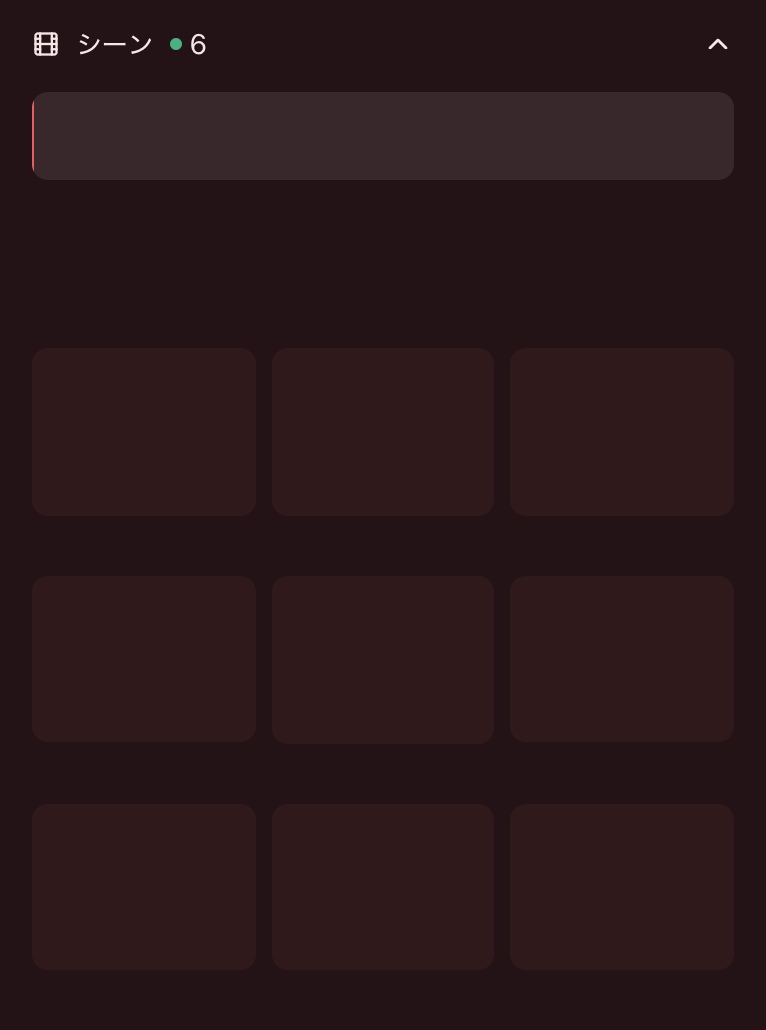
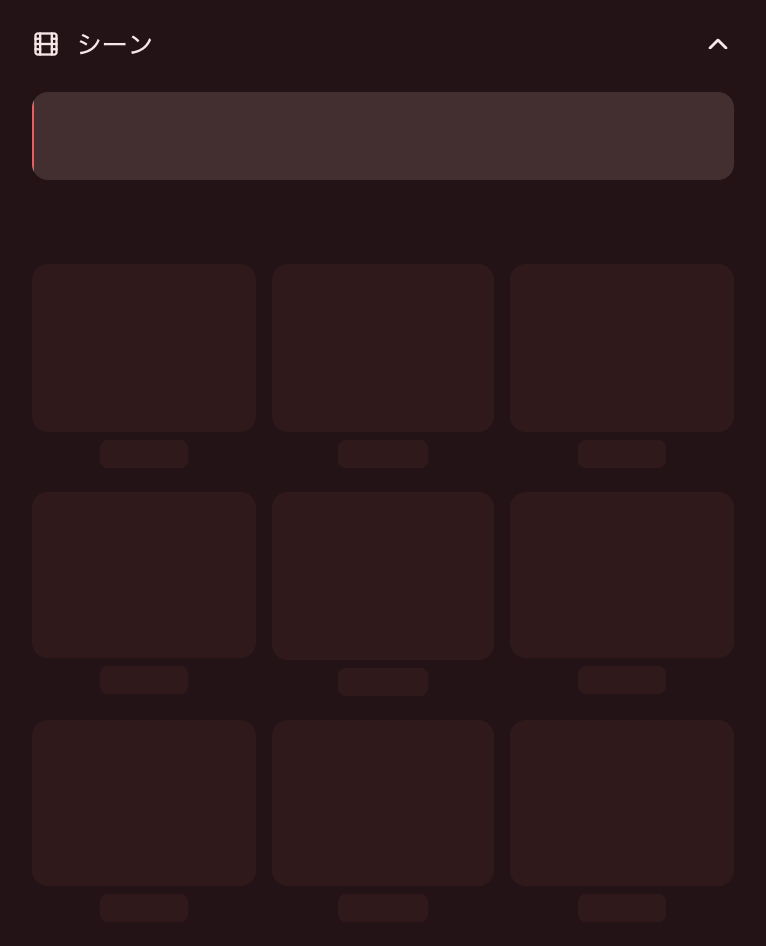
docs(review): record the second R-5 run for the Scenes section

Changed region(s): [[0.03, 0.1533, 0.9608, 0.2146], [0.03, 0.0307, 0.2702, 0.0613], [0.9308, 0.0307, 0.9608, 0.0613]]

diff --git a/docs/process/reviews/feature-scene-timeline/decisions.md b/docs/process/reviews/feature-scene-timeline/decisions.md
@@ -2,9 +2,24 @@
 
 decision:
 ran_in_app: yes
-at: e5eae0e4ff7b51189476a9d3609836bbe9244422
+at: 929422d0d7a4cd1d6fa244c33fec809d81577f9e
 by: agent
-evidence: Ran against the stack already up from this branch (video_share-scenes-*, http://localhost:3000; addons/intelligence at 85bf9ce), driven by Playwright with installed Google Chrome (headless, dark scheme, en and ja). Desktop 1440 px wide, so the inspector is 384 px and the section 351 px; phone 390 px with touch, Bottom Sheet raised to its top snap (viewport made 1500 px tall so the whole section fits in one shot). The addons/intelligence gitlink in HEAD is the same 85bf9ce. Screenshots are in docs/process/reviews/feature-scene-timeline/r5/: desktop-384-* are the 384 px inspector column at 2x, and phone-390-* the full 390 px width at 3x. -ja is the Japanese UI. keyboard-browse, playing, loft-after-seek, no-visual-index and loading-light are cropped to the section plus 12 px rather than the column. Files: A5X93nbNu71C (18:44, 276 frames, 6 scenes), XN1lPMKvrM7S, 6ZGQI6Ub5WvW, IQQRB7GwH3X_ (.loft).
+evidence: Second run, after the fix commits (addons/intelligence e8913f4, b323a26, a3abef4, 6097f12; the gitlink in HEAD is 6097f12). Ran against the stack already up from this branch (video_share-scenes-*, frontend image built 2026-11-11 12:06 JST; its bundle carries the new scene card class and not the old one). Same harness as the first run: Playwright with installed Google Chrome, headless, dark scheme unless noted, desktop 1440 px (inspector 384 px), phone 390 px with touch and the Bottom Sheet raised to its top snap. Screenshots retaken in docs/process/reviews/feature-scene-timeline/r5/ under the same names: desktop-384-loading, -loading-light, -loading-ja, -expanded-scenes, -expanded-scenes-ja, -hover-browse, -playing, -loft; phone-390-loading, -loading-ja, -expanded-scenes, -expanded-scenes-ja, -touch-browse. The other files in r5/ are from the first run.
+  First-run differences, this run:
+  - B1 fixed. On the phone, with the video paused at 0, taps on the ruler at 20%, 50%, 70% and 80% (events pointerdown:touch, pointerup:touch, click:touch each time) left the video at 0, paused. Each tap set the browse point (slider 225, 562, 787, 900; white outline on 3:43, 9:21, 13:07, 14:57), as I3 states. A horizontal drag 30->50% set 562 without a seek. A vertical drag from the ruler gave pointercancel and kept 562. A tile tap seeked to 9:06 and played. A scene card tap seeked to 7:49 and played. Document scrollWidth equals clientWidth.
+  - B2 fixed. Video paused at 30 s, ruler focused: → x3 moved the browse point 0:34, 0:35, 0:37 and ← back to 0:35, then 20 x → to 1:36; the video stayed at 30, paused, throughout. Home -> 0:06, ← at the first frame and → at the last frame (after End -> 18:39) did nothing, video still 30. Enter seeked to 18:39 and played. A keydown listener added on document received none of ←, →, Home, End dispatched on the ruler. With focus on the page, → still moves the player +10 s (100 -> 110), so the page shortcut itself is intact. The URL never changed.
+  - B3 fixed. With clip-timestamps delayed 4 s, the header during loading reads "Scenes" only (en, ja "シーン", light and dark); after the timestamps arrive it reads "Scenes 276 •6".
+  - B4 fixed. Loading now draws one ruler (the disabled real ruler, 44 px, bg rgb(47,25,27) on the panel's rgb(35,18,22); light rgb(246,246,243) on white) with its red playback line, a 14 px empty row where the labels go, and the nine 84 px blocks and their 14 px bars in the same colour as the ruler. All are visible in the dark shots; in light they are faint but visible (desktop-384-loading-light.png). The loading section is 449 px (phone 455) and grows to 633 (phone 638) when the frames draw.
+  - B6 fixed. The scene card's background is rgb(47,25,27) on the panel's rgb(35,18,22) with the pointer away from it (light: rgb(246,246,243) on white). The box is visible at rest in desktop-384-expanded-scenes.png and phone-390-expanded-scenes.png.
+  New difference from the spec text: §9 names `bg-bg-card` for the ruler, the scene card and the loading ruler-shaped block. The build now uses `bg-bg-elevated` for the ruler (loading and expanded) and the scene card, with `hover:bg-sand` on the card. That is what makes B4 and B6 visible; the spec's tokens are unchanged.
+  Regression checks, all as in the first run:
+  - Mouse: hover at 50% sets 562 with no seek, moving down into the grid keeps it, a tile click seeks to 9:18 and plays, a 60-step sweep requested 0 frame pictures while moving and 9 after the dwell, leaving the section returns to the playback window, a ruler click at 25% seeks to 280 s and plays, and the scene card click seeks to 4:42 and plays.
+  - Window stepping during playback: 4:16..4:49 -> 4:26..4:59 -> 4:42..5:07 -> 4:52..5:19, the accent moving frame by frame.
+  - Keyboard: Home/End/Enter as above; Tab from the ruler to the first tile keeps the browse point, Enter on the tile seeks to 0:06 and plays, clicking outside clears the browse point.
+  - Height: 633 px throughout hover, browse, playback and seeks; no element in the section has overflow auto or scroll.
+  - .loft (IQQRB7GwH3X_): clip-timestamps on mount, header "Scenes" collapsed, expand immediate (9 tiles and the ruler at 150 ms, "Scenes 145"), only scene-tile requested, hover 50% browses 12:00 with no seek, a ruler click seeks (playing tile follows 12:00), height 384 throughout, collapse and re-expand send no request.
+  First run, kept as the record of what was found (at e5eae0e4ff7b51189476a9d3609836bbe9244422, addons/intelligence 85bf9ce):
+  Ran against the stack already up from this branch (video_share-scenes-*, http://localhost:3000; addons/intelligence at 85bf9ce), driven by Playwright with installed Google Chrome (headless, dark scheme, en and ja). Desktop 1440 px wide, so the inspector is 384 px and the section 351 px; phone 390 px with touch, Bottom Sheet raised to its top snap (viewport made 1500 px tall so the whole section fits in one shot). The addons/intelligence gitlink in HEAD is the same 85bf9ce. Screenshots are in docs/process/reviews/feature-scene-timeline/r5/: desktop-384-* are the 384 px inspector column at 2x, and phone-390-* the full 390 px width at 3x. -ja is the Japanese UI. keyboard-browse, playing, loft-after-seek, no-visual-index and loading-light are cropped to the section plus 12 px rather than the column. Files: A5X93nbNu71C (18:44, 276 frames, 6 scenes), XN1lPMKvrM7S, 6ZGQI6Ub5WvW, IQQRB7GwH3X_ (.loft).
   As specified:
   - Collapsed header "Scenes" with no counts, and no clip-timestamps / visual-index / frame request before the expand. The expand requests clip-timestamps and visual-index, then exactly 9 frame?t= pictures.
   - Expanded: "Scenes 276 •6", ruler labels 0:00 5:00 10:00 15:00 18:44, one tick subpath per row (276, 500, 269), 4:3 tiles at 112x84, scene card, then "Regenerate scenes". The section stays 633 px tall through hover, playback and seeks, and no element inside it has overflow auto/scroll.
